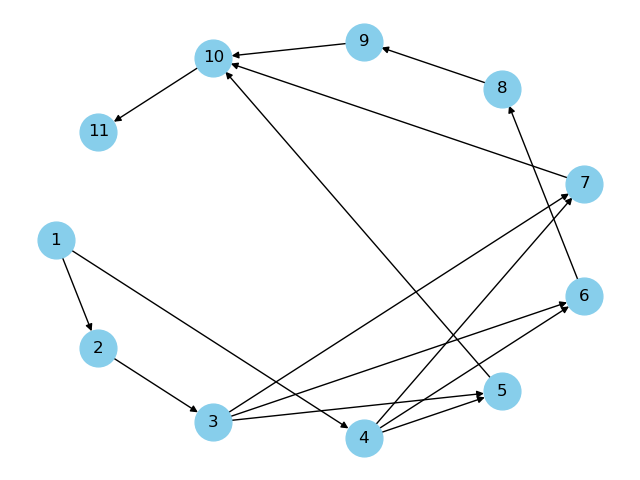
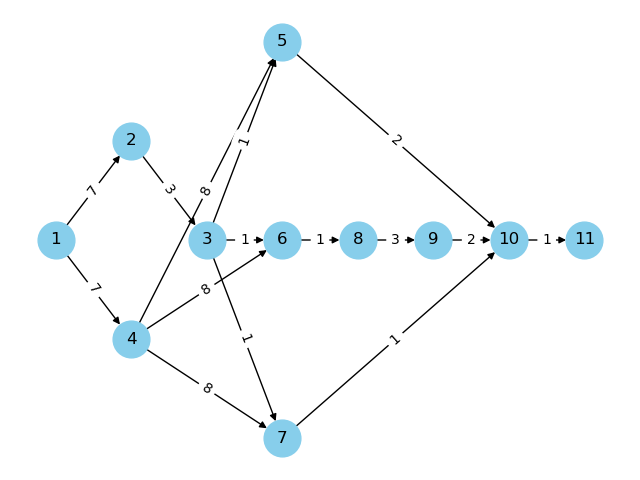
affichage topologique du graphe

diff --git a/script.py b/script.py
@@ -41,9 +41,15 @@ for tache in range(len(taches)):
 duree = chercherDuree(taches, len(taches))
 G.add_edge(len(taches), len(taches)+1, weight=duree)
 
+
+#position topologique des éléments
+for layer, nodes in enumerate(nx.topological_generations(G)):
+    for node in nodes:
+        G.nodes[node]["layer"] = layer
+pos = nx.multipartite_layout(G, subset_key="layer")
 #dessin du graphe
-pos = nx.shell_layout(G)
 nx.draw(G, pos, with_labels=True, arrows=True, node_size=700, node_color="skyblue")
+#ajout de l'affichage de la durée des tâches
 edge_labels = nx.get_edge_attributes(G, "weight")
 nx.draw_networkx_edge_labels(G, pos, edge_labels)
 
